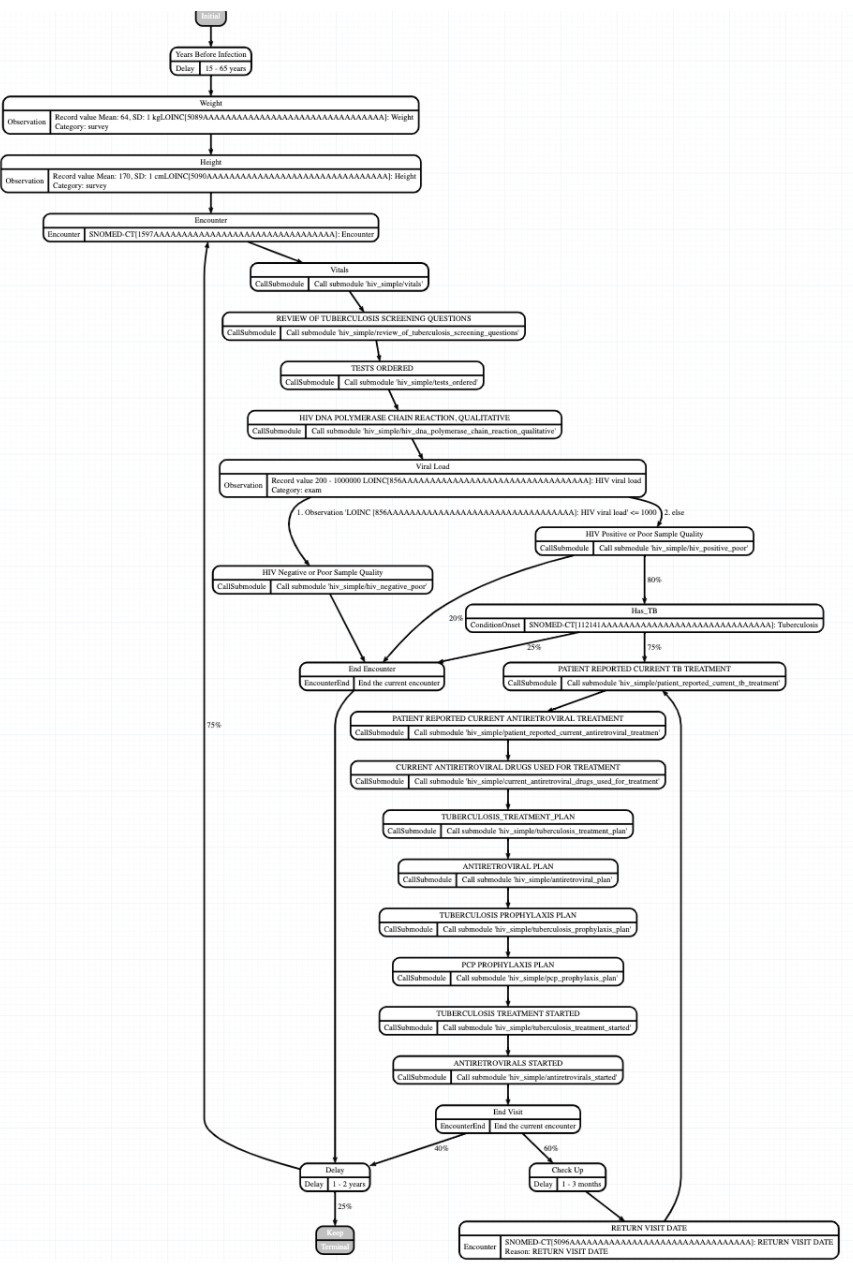
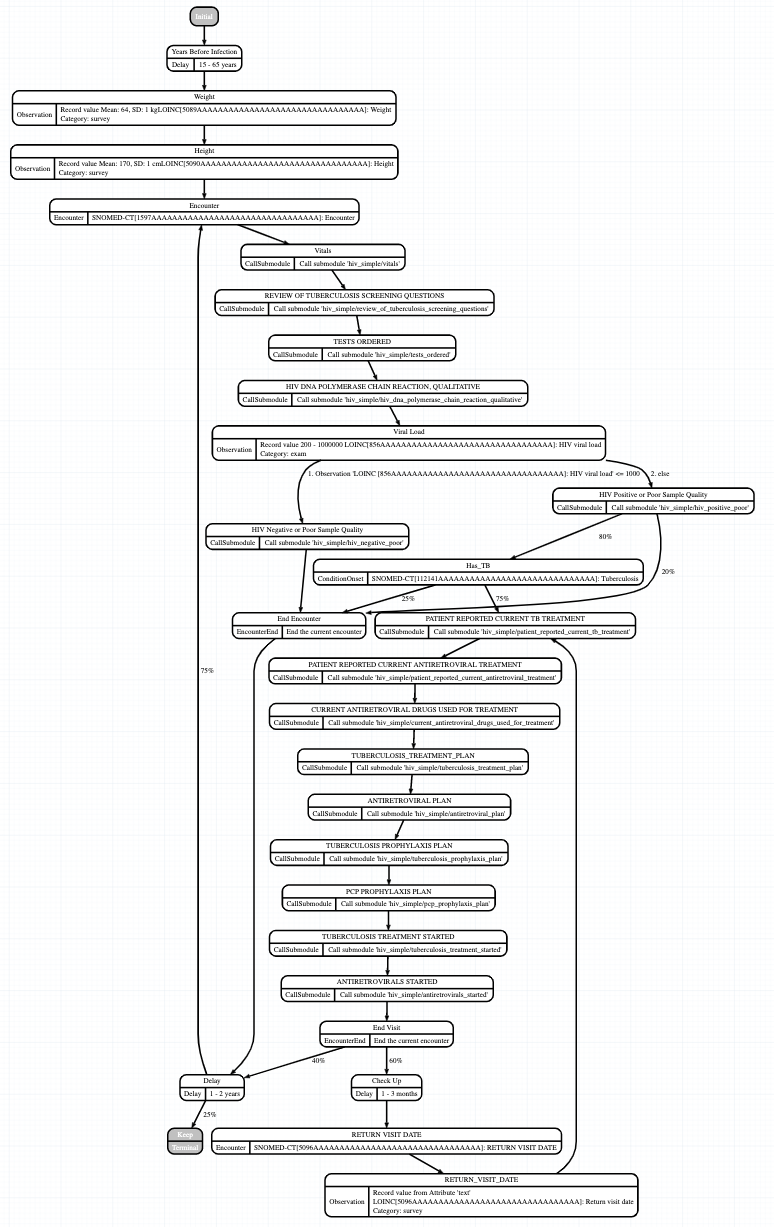
add return date as obs in model and uploader

Changed region(s): [[0.0, 0.0, 0.9922, 1.0]]

diff --git a/synthea-hiv/uploader/resources.py b/synthea-hiv/uploader/resources.py
@@ -133,3 +133,6 @@ class Observation:
     if 'valueQuantity' in self.base.json:
       self.base.json['valueQuantity']['value'] = int(
           self.base.json['valueQuantity']['value'])
+    if self.base.json['code']['coding'][0][
+        'code'] == '5096AAAAAAAAAAAAAAAAAAAAAAAAAAAAAAAA':
+      self.base.json['valueDateTime'] = self.base.json['effectiveDateTime']
